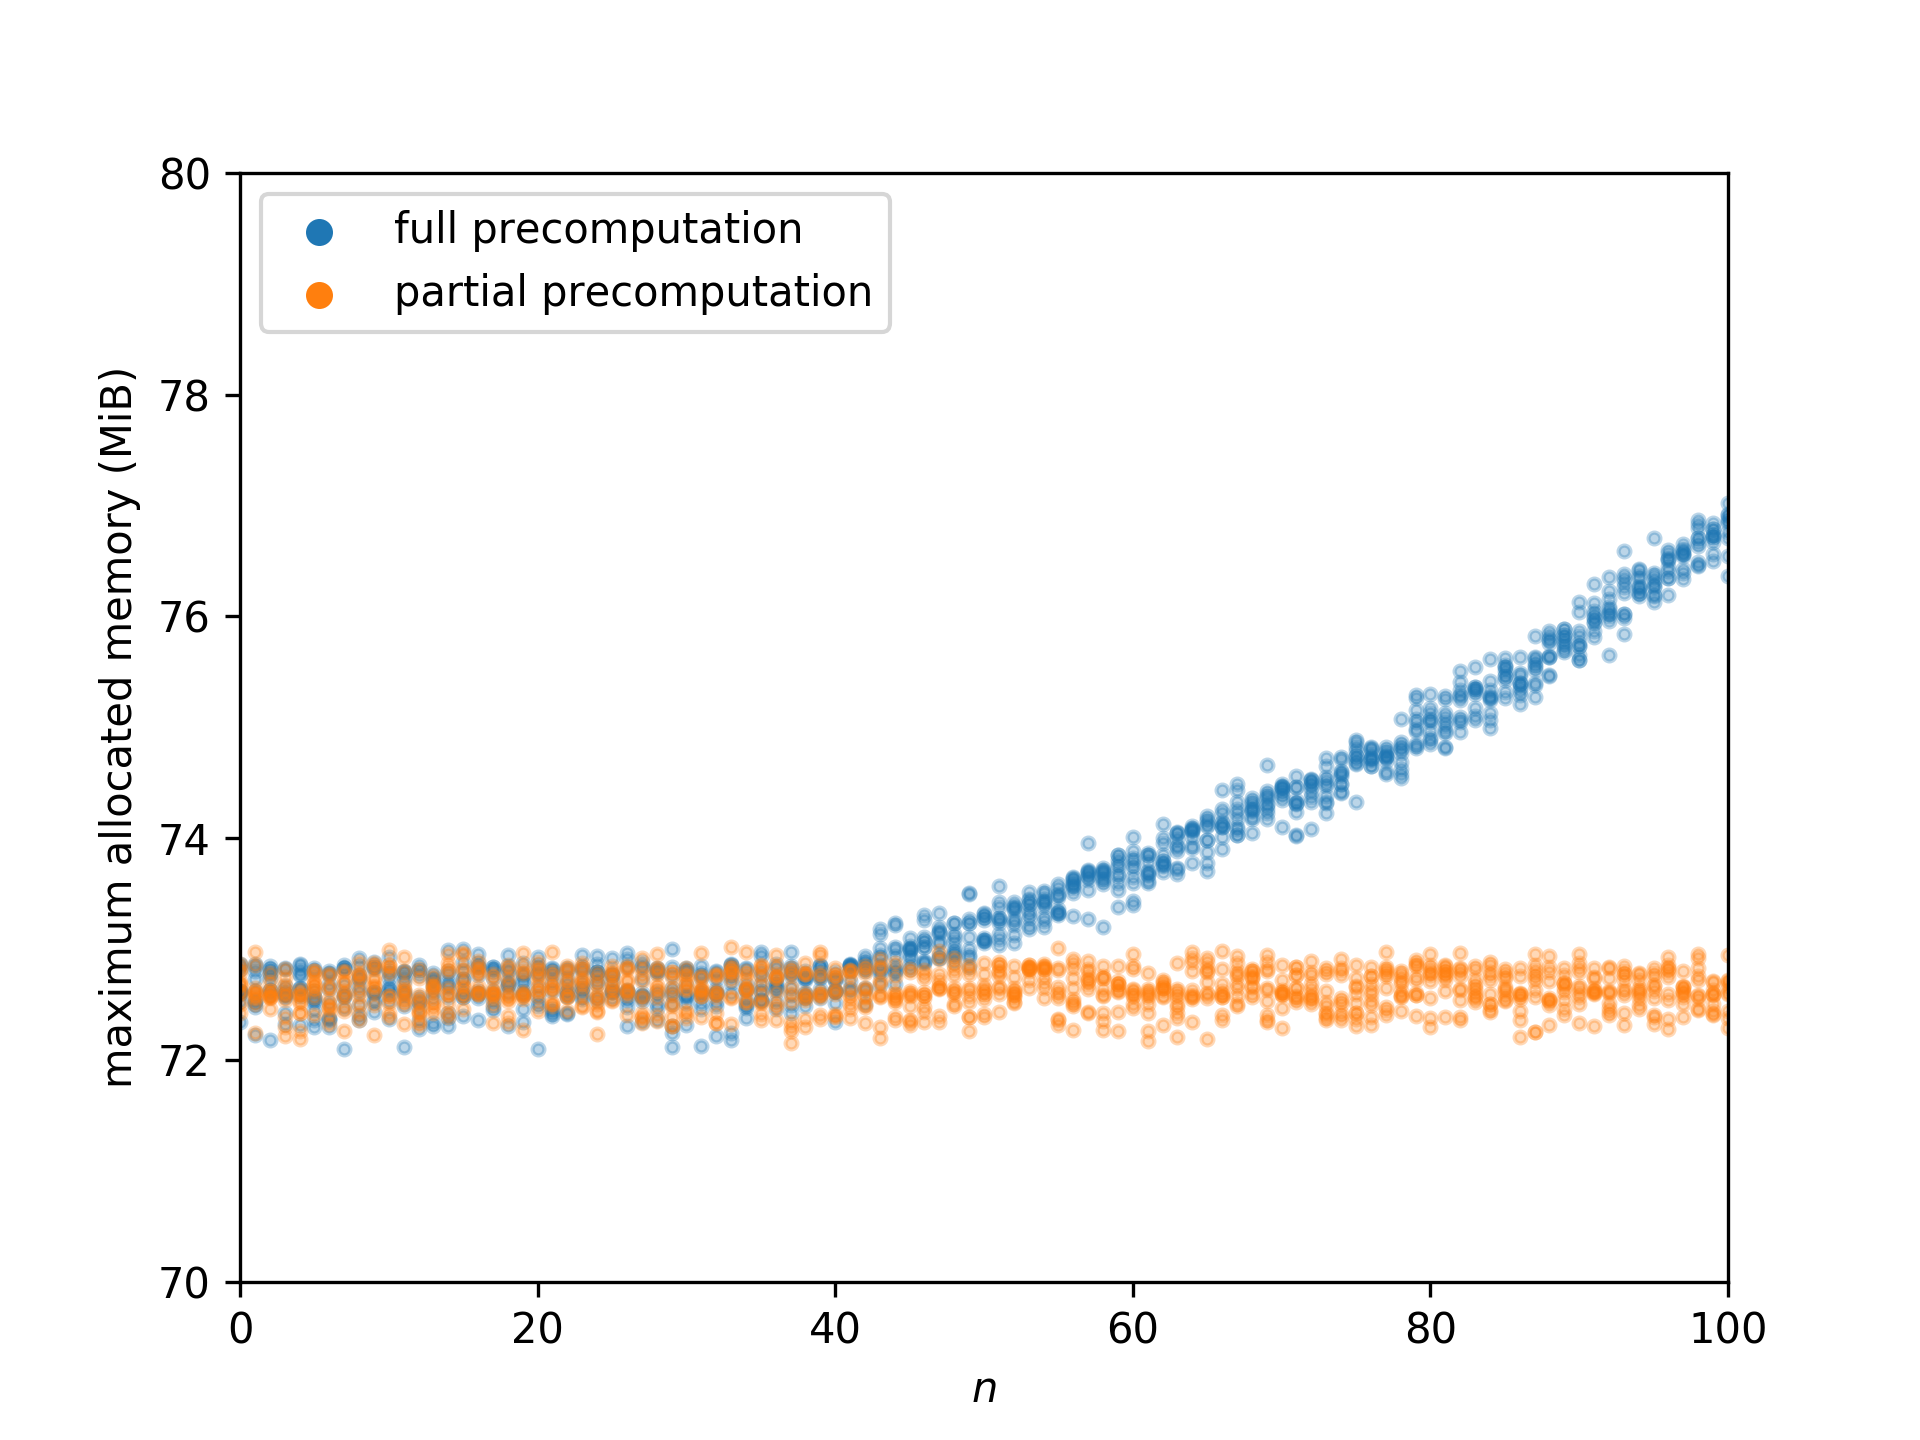
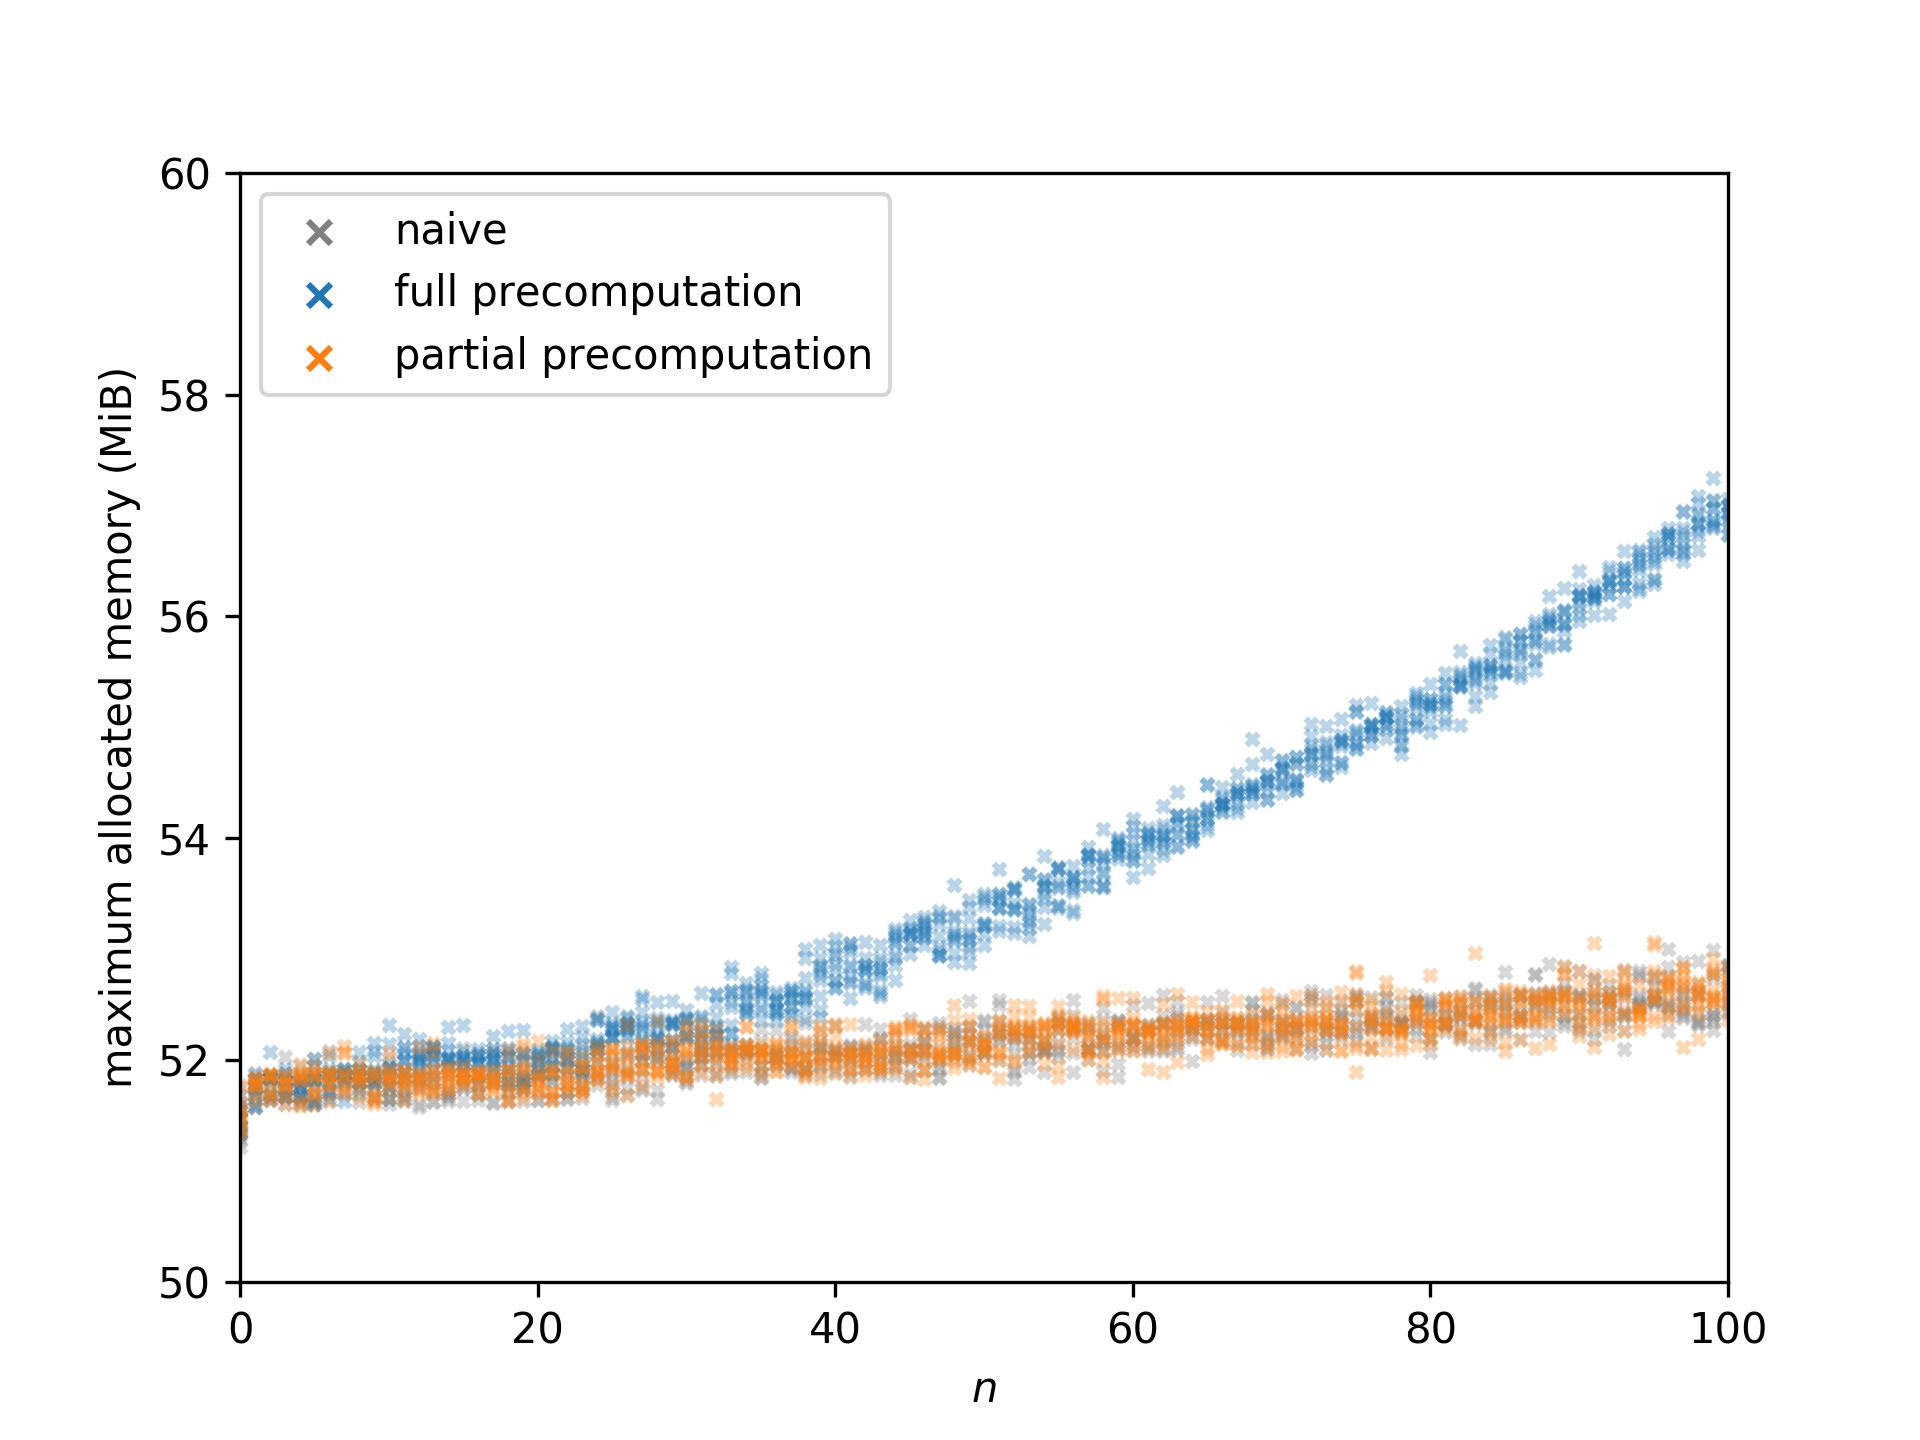
write up main theorem and update plots

diff --git a/report/interval.tex b/report/interval.tex
@@ -10,6 +10,14 @@ We use stability over other notions of good extensions to accurately model sched
 
 In order to reason about arbitrary number of properties, we inductively grow the property space over a commonly-extended framework, denoted by $\rightsquigarrow_0$. A property $P$ is modelled by the framework $\rightsquigarrow_P$, such that $\rightsquigarrow_P=\rightsquigarrow_0\cup\rightsquigarrow_P^+$. In other words, $P$ may require adding edges in $\rightsquigarrow_0$ for $\rightsquigarrow_P$ to be modelled correctly. To be correct, we must preserve the stability of some extension $E$ on $\pair{Args}{\rightsquigarrow_P}$ if $E$ is also stable on $\pair{Args}{\rightsquigarrow_0}$ and $P(S)$ is true. Let $\rightsquigarrow_1\in Args^2$ and $\rightsquigarrow_2\in Args^2$ be arbitrary frameworks.
 
+\begin{definition}
+	A framework $\rightsquigarrow$ fully-models a schedule property $P$ iff for all extensions $E$ and corresponding schedules $S$, $E$ is stable on $\pair{Args}{\rightsquigarrow}$ $\Leftrightarrow$ $P(S)$
+\end{definition}
+
+\begin{definition}
+	A framework $\rightsquigarrow$ models a schedule property $P$ iff for all extensions $E$ and corresponding schedules $S$, $E$ is conflict-free on $\pair{Args}{\rightsquigarrow}$ $\Leftrightarrow$ $P(S)$
+\end{definition}
+
 \begin{lemma}
 	$E$ is conflict-free on $\pair{Args}{\rightsquigarrow_1}$ and on $\pair{Args}{\rightsquigarrow_2}$ iff $E$ is conflict-free on $\pair{Args}{\rightsquigarrow_1\cup\rightsquigarrow_2}$.	
 
@@ -44,7 +52,7 @@ In order to reason about arbitrary number of properties, we inductively grow the
 			&E\text{ is stable on }\pair{Args}{\rightsquigarrow_1\cup\rightsquigarrow_2}&\\
 			&\land\forall a\in Args\setminus E\ (\exists e\in E\ e\rightsquigarrow_2 a)\implies(\exists e\in E\ e\rightsquigarrow_1 a)\\
 			\implies&E\text{ is conflict-free on }\pair{Args}{\rightsquigarrow_1\cup\rightsquigarrow_2}\\
-			&\land\forall a\in Args\setminus E\ \exists e\in E\ e(\rightsquigarrow_1\cup\rightsquigarrow_2)a\\
+			&\land\forall a\in Args\setminus E\ \exists e\in E\ e(\rightsquigarrow_1\cup\rightsquigarrow_2)\\
 			&\land\forall a\in Args\setminus E\ (\exists e\in E\ e\rightsquigarrow_2 a)\implies(\exists e\in E\ e\rightsquigarrow_1 a)\\
 			\implies&E\text{ is conflict-free on }\pair{Args}{\rightsquigarrow_1}\\
 			&\land\forall a\in Args\setminus E\ \exists e\in E\ (e\rightsquigarrow_1 a\lor e\rightsquigarrow_2 a)\\
@@ -56,11 +64,50 @@ In order to reason about arbitrary number of properties, we inductively grow the
 			&\land\forall a\in Args\setminus E\ ((\exists e\in E\ e\rightsquigarrow_1 a)\lor(\exists e\in E\ e\rightsquigarrow_1 a))\\
 			\implies&E\text{ is conflict-free on }\pair{Args}{\rightsquigarrow_1}\\
 			&\land\forall a\in Args\setminus E\ \exists e\in E\ e\rightsquigarrow_1 a\\
-			\implies&E\text{ is stable on }\pair{Args}{\rightsquigarrow_1}\\
+			\implies&E\text{ is stable on }\pair{Args}{\rightsquigarrow_1}
 		\end{flalign*}
-		
 	\end{proof}
 \end{lemma}
+
+\begin{theorem}
+	Let $P_0,...,P_K$ be schedule properties with $K$ properties. If $\rightsquigarrow_0$ fully-models $P_0$, and $\forall k\in\intset{1,K}\ \rightsquigarrow_k$ models $P_k$, and for all extensions $E$, $\forall a\in Arg\setminus E\ \forall k\in\intset{1,k}\ \big((\exists e\in E\ e\rightsquigarrow_k a)\implies(\exists e\in E\ e\rightsquigarrow_0 a)\big)$, then $\left(\bigcup_{k=0}^K\rightsquigarrow_k\right)$ fully-models $P_{\intset{0,K}}$. $P_{\intset{i,j}}$ is defined as an aggregate schedule property where for all schedules $S$, $P_{\intset{i, k}}(S)\Leftrightarrow\forall k\in\intset{i,j}\ P_k(S)$.
+	
+	\begin{proof}
+		Take arbitrary $K\in\mathbb{N}$. To prove forward implication:
+		\begin{enumerate}
+			\item$\rightsquigarrow_0$ fully-models $P_0$\hfill given
+			\item$\forall k\in\intset{1,K}\ \rightsquigarrow_k$ models $P_k$\hfill given
+			\item$\forall a\in Arg\setminus E\ \forall k\in\intset{1,K}\ \big((\exists e\in E\ e\rightsquigarrow_k a)\implies(\exists e\in E\ e\rightsquigarrow_0 a)\big)$\\\null\hfill given
+			\item$E$ is stable on $\pair{Args}{\bigcup_{k=0}^K\rightsquigarrow_k}$\hfill assumption
+			\item$\forall a\in Arg\setminus E\ \left(\left(\exists e\in E\ e\left(\bigcup_{k=0}^K\rightsquigarrow_k\right) a\right)\implies(\exists e\in E\ e\rightsquigarrow_0 a)\right)$\\\null\hfill by equivalence of 3
+			\item$E$ is stable on $\pair{Args}{\rightsquigarrow_0}$\hfill lemma 4, 4, 5
+			\item$P_0(S)$\hfill 1, 6
+			\item Take arbitrary $k\in\intset{1,K}$
+			\begin{level}
+				\item$E$ is conflict-free on $\pair{Args}{\rightsquigarrow_k}$\hfill lemma 3, 4
+				\item$P_k$(S)\hfill 2, 9
+			\end{level}
+			\item$\forall k\in\intset{1,K}\ P_k(S)$\hfill 8, 10
+			\item$P_{\intset{0,K}}(S)$ \hfill 7, 11
+		\end{enumerate}
+	
+		To prove backward implication:
+		\begin{enumerate}
+			\item$\rightsquigarrow_0$ fully-models $P_0$\hfill given
+			\item$\forall k\in\intset{1,K}\ \rightsquigarrow_k$ models $P_k$\hfill given
+			\item$P_{\intset{0,K}}(S)$\hfill assumption
+			\item$P_0(S)$\hfill 3
+			\item$E$ is stable on $\pair{Args}{\rightsquigarrow_0}$\hfill 1, 4
+			\item Recursively over $k\in\intset{1,K}$
+			\begin{level}
+				\item $P_k(S)$\hfill 3
+				\item $E$ is conflict-free on $\pair{Arg}{\rightsquigarrow_k}$\hfill 2, 7
+				\item $E$ is stable on $\pair{Arg}{\bigcup_{k'=0}^k\rightsquigarrow_{k'}}$\hfill lemma 2, 5, 8
+			\end{level}
+			\item $E$ is stable on $\pair{Arg}{\bigcup_{k=0}^K\rightsquigarrow_k}$\hfill 6, 9
+		\end{enumerate}
+	\end{proof}
+\end{theorem}
 
 \section{Interval Scheduling}
 

diff --git a/scripts/plot_profiles.py b/scripts/plot_profiles.py
@@ -1,4 +1,5 @@
 import matplotlib.pyplot as plt
+import matplotlib.patches as patches
 import sys
 import csv
 
@@ -7,6 +8,8 @@ full_cpu = []
 full_memory = []
 partial_cpu = []
 partial_memory = []
+naive_cpu = []
+naive_memory = []
 
 for filename in sys.argv[1:]:
 	with open(filename, 'r') as csvfile:
@@ -19,6 +22,9 @@ for filename in sys.argv[1:]:
 			elif row[0] == 'partial':
 				partial_cpu.append(float(row[2]))
 				partial_memory.append(float(row[3]) / 1024)
+			elif row[0] == 'naive':
+				naive_cpu.append(float(row[2]))
+				naive_memory.append(float(row[3]) / 1024)
 
 small_scale = 8
 big_scale = 0.2
@@ -32,18 +38,21 @@ def draw_legend():
 		lh._sizes = [30]
 
 cpu_figure = plt.figure(1)
-plt.scatter(job_samples, full_cpu, label='full precomputation', s=small_scale, alpha=alpha)
-plt.scatter(job_samples, partial_cpu, label='partial precomputation', s=small_scale, alpha=alpha)
+plt.scatter(job_samples, naive_cpu, label='naive', s=small_scale, alpha=alpha, marker='x', color='grey')
+plt.scatter(job_samples, full_cpu, label='full precomputation', s=small_scale, alpha=alpha, marker='x')
+plt.scatter(job_samples, partial_cpu, label='partial precomputation', s=small_scale, alpha=alpha, marker='x')
 plt.xlabel('$n$')
 plt.ylabel('elapsed time (s)')
 plt.xlim([0, 100])
-plt.ylim([0.6, 1])
+plt.ylim([0.3, 0.6])
 draw_legend()
 cpu_figure.savefig('precomputation_cpu_small.png', dpi=300)
 
 cpu_figure = plt.figure(2)
-plt.scatter(job_samples, full_cpu, label='full precomputation', s=big_scale, alpha=alpha)
-plt.scatter(job_samples, partial_cpu, label='partial precomputation', s=big_scale, alpha=alpha)
+plt.gca().add_patch(patches.Rectangle((0, 0.3), 100, 0.3, linewidth=1, linestyle=':', edgecolor='black', facecolor='none'))
+plt.scatter(job_samples, naive_cpu, label='naive', s=big_scale, alpha=alpha, marker='x', color='grey')
+plt.scatter(job_samples, full_cpu, label='full precomputation', s=big_scale, alpha=alpha, marker='x')
+plt.scatter(job_samples, partial_cpu, label='partial precomputation', s=big_scale, alpha=alpha, marker='x')
 plt.xlabel('$n$')
 plt.ylabel('elapsed time (s)')
 plt.xlim([0, 800])
@@ -52,18 +61,21 @@ draw_legend()
 cpu_figure.savefig('precomputation_cpu_big.png', dpi=300)
 
 memory_figure = plt.figure(3)
-plt.scatter(job_samples, full_memory, label='full precomputation', s=small_scale, alpha=alpha)
-plt.scatter(job_samples, partial_memory, label='partial precomputation', s=small_scale, alpha=alpha)
+plt.scatter(job_samples, naive_memory, label='naive', s=small_scale, alpha=alpha, marker='x', color='grey')
+plt.scatter(job_samples, full_memory, label='full precomputation', s=small_scale, alpha=alpha, marker='x')
+plt.scatter(job_samples, partial_memory, label='partial precomputation', s=small_scale, alpha=alpha, marker='x')
 plt.xlabel('$n$')
 plt.ylabel('maximum allocated memory (MiB)')
 plt.xlim([0, 100])
-plt.ylim([70, 80])
+plt.ylim([50, 60])
 draw_legend()
 memory_figure.savefig('precomputation_memory_small.png', dpi=300)
 
 memory_figure = plt.figure(4)
-plt.scatter(job_samples, full_memory, label='full precomputation', s=big_scale, alpha=alpha)
-plt.scatter(job_samples, partial_memory, label='partial precomputation', s=big_scale, alpha=alpha)
+plt.gca().add_patch(patches.Rectangle((0, 50), 100, 10, linewidth=1, linestyle=':', edgecolor='black', facecolor='none'))
+plt.scatter(job_samples, naive_memory, label='naive', s=big_scale, alpha=alpha, marker='x', color='grey')
+plt.scatter(job_samples, full_memory, label='full precomputation', s=big_scale, alpha=alpha, marker='x')
+plt.scatter(job_samples, partial_memory, label='partial precomputation', s=big_scale, alpha=alpha, marker='x')
 plt.xlabel('$n$')
 plt.ylabel('maximum allocated memory (MiB)')
 plt.xlim([0, 800])

diff --git a/report/definitions.tex b/report/definitions.tex
@@ -30,6 +30,7 @@
 \newcommand{\toolname}{Schedule Explainer}
 \newcommand{\linespace}{\vspace*{\baselineskip}\\}
 \newcommand{\pair}[2]{\langle{#1},{#2}\rangle}
+\newcommand{\intset}[1]{[\![{#1}]\!]}
 \tikzstyle{file} = [draw, inner sep=10pt]
 \tikzstyle{node} = [draw, circle, inner sep=5pt]
 \tikzstyle{arrow} = [-{Stealth[scale=2]}]
@@ -37,3 +38,7 @@
 \makeatletter
 \newcommand{\incircbin}{\mathpalette\@incircbin}
 \newcommand\@incircbin[2]{\mathbin{\ooalign{\hidewidth$#1#2$\hidewidth\crcr$#1\bigcirc$}}}
+
+\newenvironment{level}%
+{\addtolength{\itemindent}{2em}}%
+{\addtolength{\itemindent}{-2em}}

diff --git a/report/diagram.tex b/report/diagram.tex
@@ -1,5 +1,3 @@
-\chapter{Diagrams}
-
 \tikzstyle{box} = [draw, inner sep=5pt, align=center]
 
 \begin{tikzpicture}
@@ -98,3 +96,10 @@
 		}
 	};
 \end{tikzpicture}
+
+\begin{align*}
+&\rightsquigarrow_0\text{ fully-models }P_0\\
+\land&\ \forall k\in\intset{1,K}\ \rightsquigarrow_k\text{ models }P_k\\
+\land&\ \forall E\in\mathcal{M}\times\mathcal{J}\ \forall a\in Arg\setminus E\ \forall k\in\intset{1,k}\bigg((\exists e\in E\ e\rightsquigarrow_k a)(\exists e\in E\ e\rightsquigarrow_0 a)\bigg)\\
+\implies&\bigg(\bigcup_{k=0}^K\rightsquigarrow_k\bigg)\text{ fully-models }P_{\intset{0,K}}
+\end{align*}

diff --git a/report/main.tex b/report/main.tex
@@ -28,7 +28,6 @@
 		\input{diagram}
 	\end{appendices}
 
-
 	\cleardoublepage
 	\bibliography{bibliography}
 	\addcontentsline{toc}{chapter}{Bibliography}

diff --git a/report/dummy.tex b/report/dummy.tex
@@ -3,6 +3,7 @@
 \input{definitions}
 
 \begin{document}	
-	\input{interval}
+	%\input{interval}
 	%\input{userguide}
+	\input{diagram}
 \end{document}
